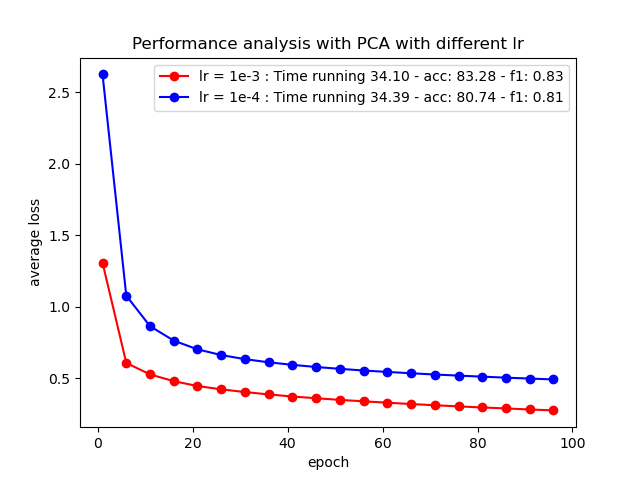
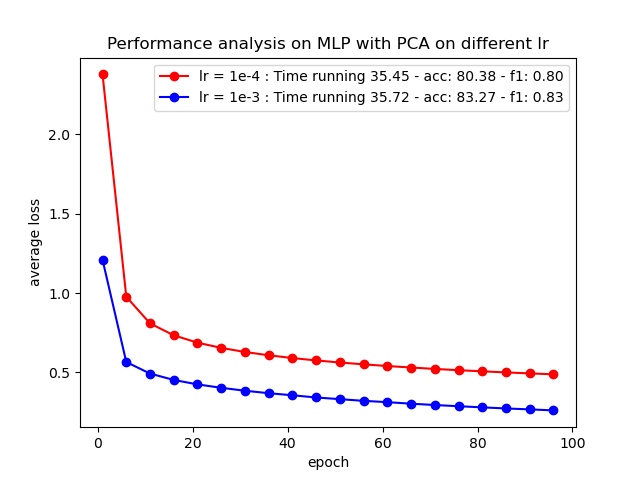
version2

diff --git a/344929_344939_344848_project/main.py b/344929_344939_344848_project/main.py
@@ -113,7 +113,7 @@ def main(args):
 
     if args.plotMLP_lr:
         n_classes = get_n_classes(ytrain)
-        args.lr = 1e-3
+        args.lr = 1e-4
         # with pca
         print("Using PCA")
         pca_obj = PCA(d=args.pca_d)
@@ -135,7 +135,7 @@ def main(args):
         macrof1_1 = macrof1_fn(preds, ytest)
         print(f"Validation set :  accuracy = {acc_1:.3f}% - F1-score = {macrof1_1:.6f}")
 
-        args.lr = 1e-4
+        args.lr = 1e-3
         model = MLP(xtrain.shape[1], n_classes)
         average_loss_epoch_list_with_pca = []
         method_obj = Trainer(model, lr=args.lr, epochs=args.max_iters, batch_size=args.nn_batch_size, average_loss_list=average_loss_epoch_list_with_pca)
@@ -153,10 +153,10 @@ def main(args):
         # plotting
         nbr_epoc = np.arange(1, args.max_iters + 1)
         plt.figure()
-        plt.title("Performance analysis with PCA with different lr")
+        plt.title("Performance analysis on MLP with PCA on different lr")
         skip_factor = 5
-        plt.plot(nbr_epoc[::skip_factor], average_loss_epoch_list_without_pca[::skip_factor], 'ro-' , label = f"lr = 1e-3 : Time running {train_stop_1 - train_start_1:.2f} - acc: {acc_1:.2f} - f1: {macrof1_1:.2f}")
-        plt.plot(nbr_epoc[::skip_factor], average_loss_epoch_list_with_pca[::skip_factor], 'bo-', label = f"lr = 1e-4 : Time running {train_stop_2 - train_start_2:.2f} - acc: {acc_2:.2f} - f1: {macrof1_2:.2f}")
+        plt.plot(nbr_epoc[::skip_factor], average_loss_epoch_list_without_pca[::skip_factor], 'ro-' , label = f"lr = 1e-4 : Time running {train_stop_1 - train_start_1:.2f} - acc: {acc_1:.2f} - f1: {macrof1_1:.2f}")
+        plt.plot(nbr_epoc[::skip_factor], average_loss_epoch_list_with_pca[::skip_factor], 'bo-', label = f"lr = 1e-3 : Time running {train_stop_2 - train_start_2:.2f} - acc: {acc_2:.2f} - f1: {macrof1_2:.2f}")
         plt.ylabel("average loss")
         plt.xlabel("epoch")
         plt.legend()
@@ -164,6 +164,10 @@ def main(args):
         exit(0)
 
     if args.plotCNN_lr:
+        N, D = xtrain.shape
+        W = H = int(np.sqrt(D))
+        xtrain = xtrain.reshape((N, 1, W, H))
+        xtest = xtest.reshape((xtest.shape[0], 1, W, H))
         n_classes = get_n_classes(ytrain)
 
         # lr = 1e-4, batch_size = 64
@@ -204,7 +208,7 @@ def main(args):
         nbr_epoc = np.arange(1, args.max_iters + 1)
         plt.figure()
         plt.title("Performance analysis on CNN by tuning lr")
-        skip_factor = 5
+        skip_factor = 1
         plt.plot(nbr_epoc[::skip_factor], average_loss_epoch_list_1[::skip_factor], 'ro-' , label = f"lr = 1e-4: Time running {train_stop_1 - train_start_1:.2f} - acc: {acc_1:.2f} - f1: {macrof1_1:.2f}")
         plt.plot(nbr_epoc[::skip_factor], average_loss_epoch_list_2[::skip_factor], 'bo-', label = f"lr = 1e-3: Time running {train_stop_2 - train_start_2:.2f} - acc: {acc_2:.2f} - f1: {macrof1_2:.2f}")
         plt.ylabel("average loss")
@@ -214,10 +218,14 @@ def main(args):
         exit(0)
 
     if args.plotTRANSFORMER_lr:
+        N, D = xtrain.shape
+        W = H = int(np.sqrt(D))
+        xtrain = xtrain.reshape((N, 1, W, H))
+        xtest = xtest.reshape((xtest.shape[0], 1, W, H))
         n_classes = get_n_classes(ytrain)
 
-        # lr = 1e-4
-        args.lr = 1e-4
+        # lr = 0.2
+        args.lr = 0.005
         
         model = MyViT((1, 28, 28), 7, 2, 8, 2, n_classes)
         average_loss_epoch_list_1 = []
@@ -233,8 +241,8 @@ def main(args):
         macrof1_1 = macrof1_fn(preds, ytest)
         print(f"Validation set without pca:  accuracy = {acc_1:.3f}% - F1-score = {macrof1_1:.6f}")
 
-        # lr = 1e-3 
-        args.lr = 1e-3
+        # lr = 0.1
+        args.lr = 0.01
 
         model = MyViT((1, 28, 28), 7, 2, 8, 2, n_classes)
         average_loss_epoch_list_2 = []
@@ -255,8 +263,8 @@ def main(args):
         plt.figure()
         plt.title("Performance analysis on Transformer model by tuning lr")
         skip_factor = 5
-        plt.plot(nbr_epoc[::skip_factor], average_loss_epoch_list_1[::skip_factor], 'ro-' , label = f"w/ lr = 1e-4: Time running {train_stop_1 - train_start_1:.2f} - acc: {acc_1:.2f} - f1: {macrof1_1:.2f}")
-        plt.plot(nbr_epoc[::skip_factor], average_loss_epoch_list_2[::skip_factor], 'bo-', label = f"w/ lr = 1e-3: Time running {train_stop_2 - train_start_2:.2f} - acc: {acc_2:.2f} - f1: {macrof1_2:.2f}")
+        plt.plot(nbr_epoc[::skip_factor], average_loss_epoch_list_1[::skip_factor], 'ro-' , label = f"w/ lr = 0.2: Time running {train_stop_1 - train_start_1:.2f} - acc: {acc_1:.2f} - f1: {macrof1_1:.2f}")
+        plt.plot(nbr_epoc[::skip_factor], average_loss_epoch_list_2[::skip_factor], 'bo-', label = f"w/ lr = 0.1: Time running {train_stop_2 - train_start_2:.2f} - acc: {acc_2:.2f} - f1: {macrof1_2:.2f}")
         plt.ylabel("average loss")
         plt.xlabel("epoch")
         plt.legend()
@@ -269,17 +277,23 @@ def main(args):
 
     # Prepare the model (and data) for Pytorch
     # Note: you might need to reshape the data depending on the network you use!
+    N, D = xtrain.shape
+    W = H = int(np.sqrt(D))
     n_classes = get_n_classes(ytrain)
     if args.nn_type == "mlp":
         model = MLP(xtrain.shape[1], n_classes)
     elif args.nn_type == "cnn":
         model = CNN(1, n_classes)
+        xtrain = xtrain.reshape((N, 1, W, H))
+        xtest = xtest.reshape((xtest.shape[0], 1, W, H))
     elif args.nn_type == "transformer":
         model = MyViT((1, 28, 28), 7, 2, 8, 2, n_classes)
+        xtrain = xtrain.reshape((N, 1, W, H))
+        xtest = xtest.reshape((xtest.shape[0], 1, W, H))
     else :
         model = DummyClassifier(0) 
     summary(model)
-
+     
     # Trainer object
     average_loss_epoch_list = []
     method_obj = Trainer(model, lr=args.lr, epochs=args.max_iters, batch_size=args.nn_batch_size, average_loss_list=average_loss_epoch_list)

diff --git a/344929_344939_344848_project/src/methods/deep_network.py b/344929_344939_344848_project/src/methods/deep_network.py
@@ -5,7 +5,7 @@ import torch.nn as nn
 import torch.nn.functional as F
 from torch.utils.data import TensorDataset, DataLoader
 from src.utils import onehot_to_label, label_to_onehot
-PRINT_EACH = 500
+
 
 ## MS2
 
@@ -329,7 +329,8 @@ class Trainer(object):
         # Used to add average of one epoch to the list for plotting
         number_of_samples = 0
         running_loss_on_epoch = 0
-        
+        train_loss = 0.0
+        N_EPOCHS = self.epochs
         for it, batch in enumerate(dataloader):
             images ,targets = batch
 
@@ -338,18 +339,17 @@ class Trainer(object):
             loss = self.criterion(logits, targets.long())
             loss.backward()
             self.optimizer.step()
-            running_loss += loss.item()
+            train_loss += loss.detach().cpu().item() / len(dataloader)
 
             # For plotting
+            
             running_loss_on_epoch += loss.item()
             number_of_samples += 1
 
             #zero gradients
             self.optimizer.zero_grad()
 
-            if it % PRINT_EACH == PRINT_EACH-1:
-                print(f"[{ep+1}, {it+1:5d}] average_loss: {running_loss/PRINT_EACH}")
-                running_loss = 0
+        print(f"Epoch {ep + 1}/{N_EPOCHS} loss: {train_loss:.2f}")
         self.average_loss_list.append(running_loss_on_epoch / number_of_samples)
 
 
@@ -391,20 +391,8 @@ class Trainer(object):
         Returns:
             pred_labels (array): target of shape (N,)
         """
-        N, D = training_data.shape
-        W = H = int(np.sqrt(D))
-        if isinstance(self.model, CNN):
-            # add number of channels
-            training_data_reshaped = training_data.reshape(N, 1, W, H)
-        elif isinstance(self.model, MLP):
-            training_data_reshaped = training_data
-        elif isinstance(self.model, MyViT):
-            training_data_reshaped = training_data.reshape(N, 1, W, H)
-        else:
-            training_data_reshaped = training_data
-
         # First, prepare data for pytorch
-        train_dataset = TensorDataset(torch.from_numpy( training_data_reshaped).float(), 
+        train_dataset = TensorDataset(torch.from_numpy( training_data).float(), 
                                       torch.from_numpy(training_labels))
         train_dataloader = DataLoader(train_dataset, batch_size=self.batch_size, shuffle=True)
         
@@ -423,20 +411,6 @@ class Trainer(object):
         Returns:
             pred_labels (array): labels of shape (N,)
         """
-        # First, prepare data for pytorch
-        N, D = test_data.shape
-        W = H = int(np.sqrt(D))
-        if isinstance(self.model, CNN):
-            # add number of channels
-            assert W * H == D
-            test_data = test_data.reshape(N, 1, W, H)
-        elif isinstance(self.model, MLP):
-            # nothing to be done input already has correct shape
-            pass
-        elif isinstance(self.model, MyViT):
-            assert W * H == D
-            test_data = test_data.reshape(N, 1, W, H)
-
         # First, prepare data for pytorch  
         test_dataset = TensorDataset(torch.from_numpy(test_data).float())
         test_dataloader = DataLoader(test_dataset, batch_size=self.batch_size, shuffle=False)
